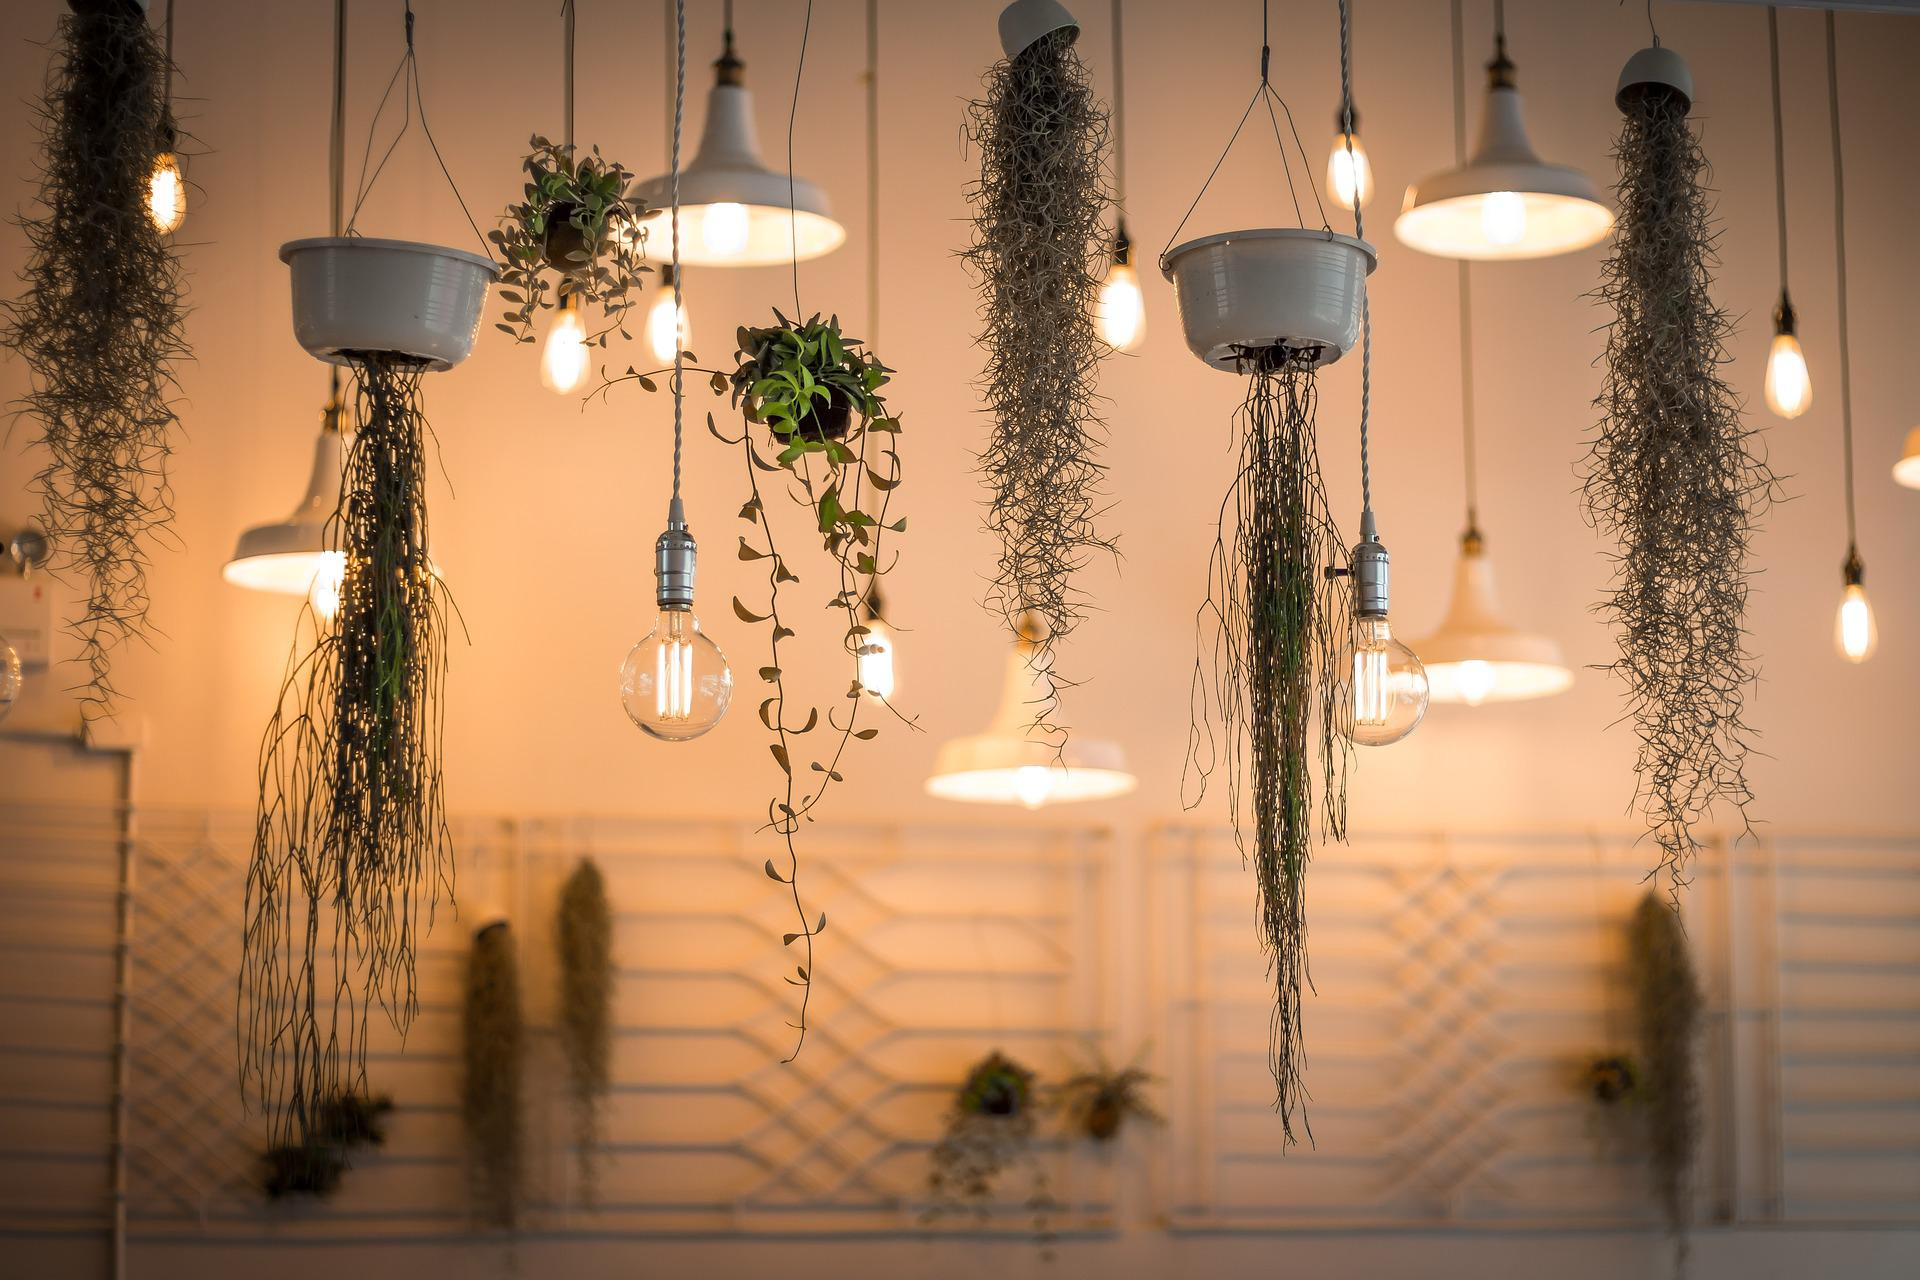
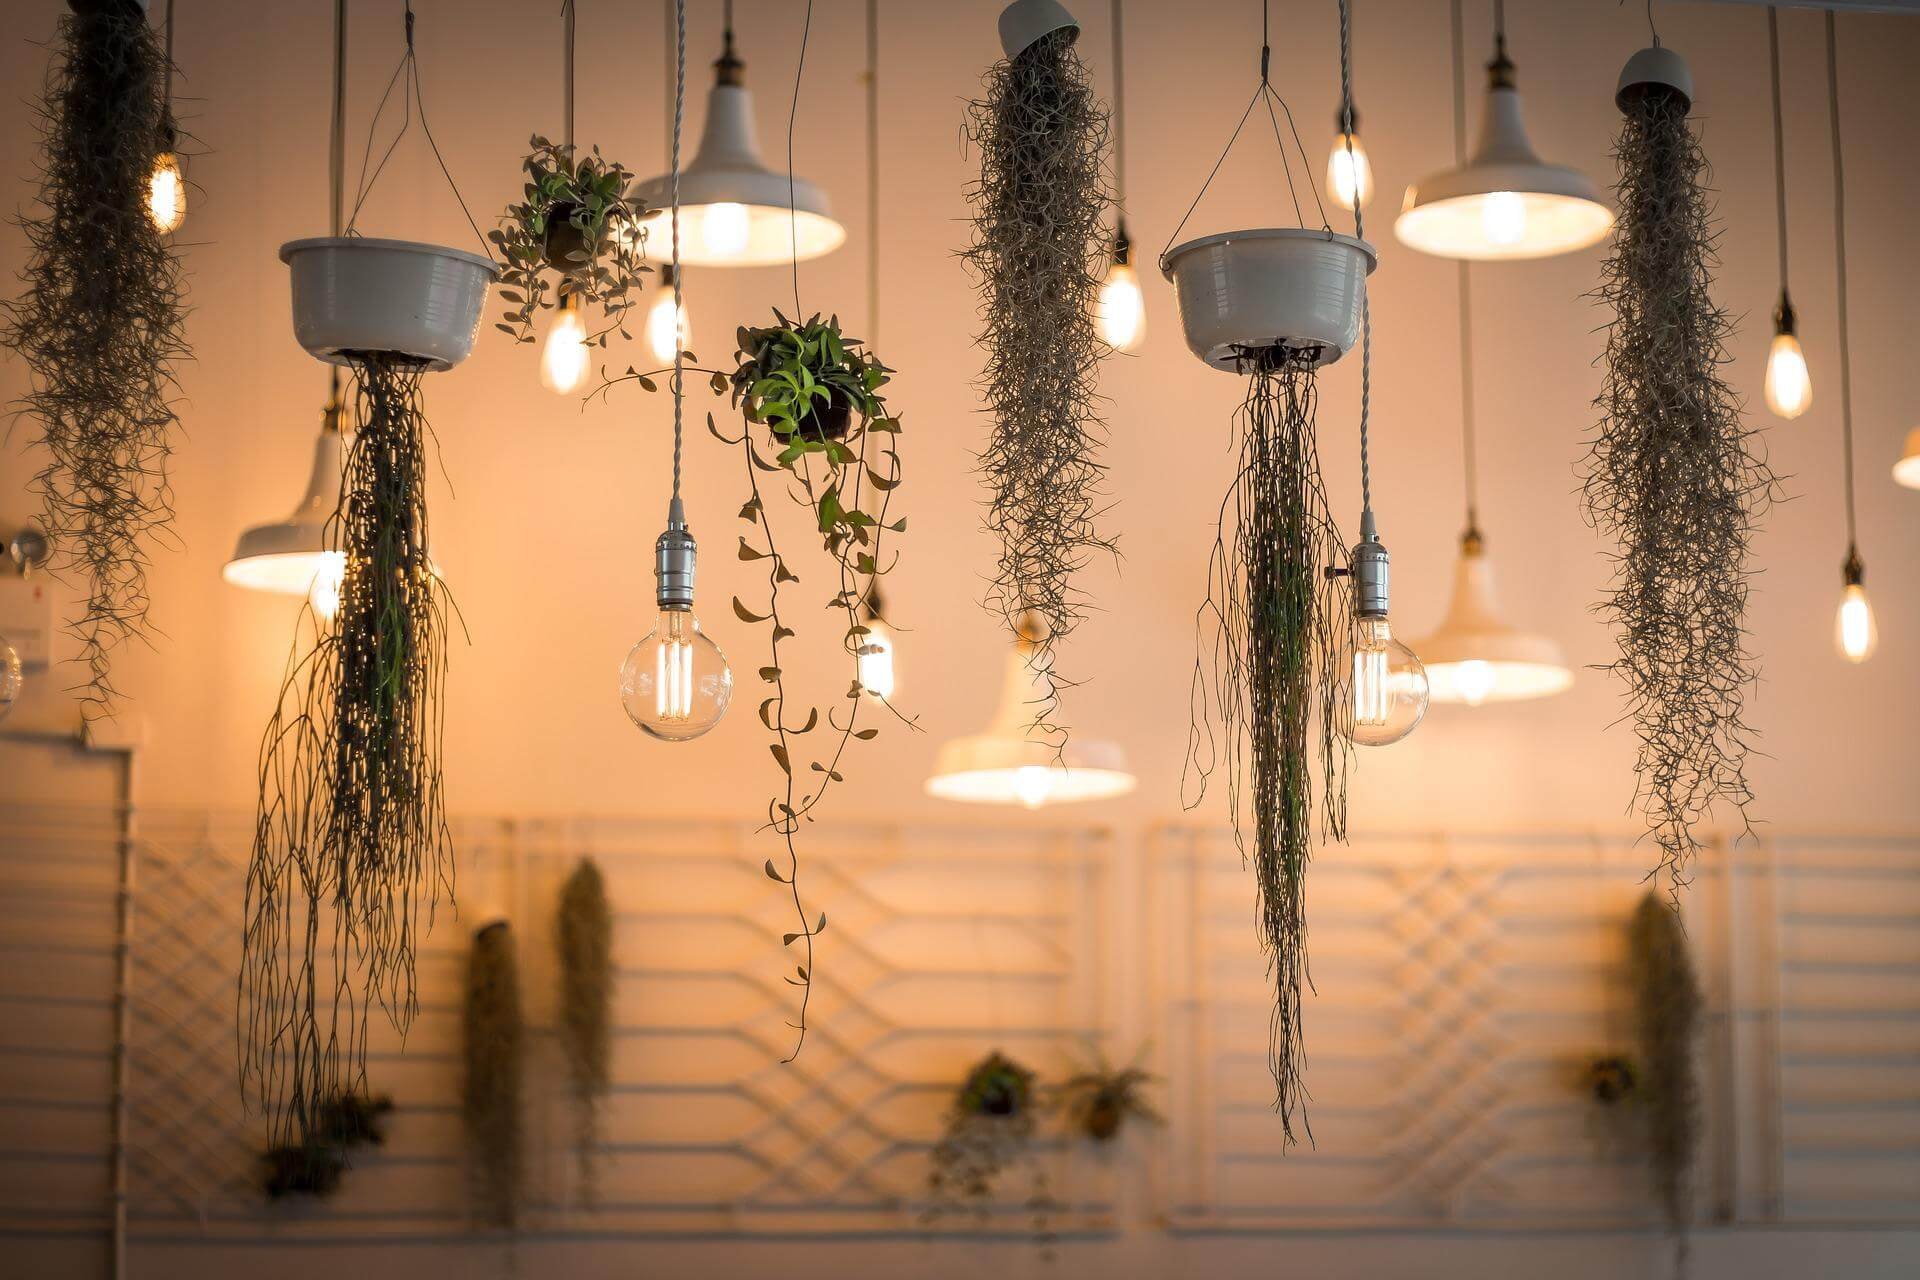
resizing/optimizing photos, added ion-slides on tab2

Changed region(s): [[0.5312, 0.3438, 0.5625, 0.4688]]

diff --git a/src/pages/Tab2.tsx b/src/pages/Tab2.tsx
@@ -1,51 +1,218 @@
-import 
-{ 
-  IonContent, 
-  IonHeader, 
-  IonPage, 
-  IonTitle, 
+import { useCallback, useEffect, useMemo, useState } from "react";
+
+import {
+  IonContent,
+  IonHeader,
+  IonPage,
+  IonTitle,
   IonToolbar,
   IonItem,
   IonCard,
   IonImg,
   IonIcon,
   IonLabel,
-  IonCardTitle, 
-} 
-from '@ionic/react';
-import ExploreContainer from '../components/ExploreContainer';
-import './Tab2.css';
+  IonCardTitle,
+  IonItemSliding,
+  IonItemOptions,
+  IonItemOption,
+  IonSlides,
+  IonSlide,
+  IonGrid,
+  IonRow,
+  IonCol,
+  IonText,
+} from "@ionic/react";
+
+import { ellipsisHorizontal, ellipsisVertical, archive } from "ionicons/icons";
+
+import ExploreContainer from "../components/ExploreContainer";
+import "./Tab2.css";
+
+const slideOpts = {
+  initialSlide: 1,
+  speed: 400,
+};
 
 const Tab2: React.FC = () => {
+
   return (
     <IonPage>
-      <IonContent fullscreen>
+      <IonContent fullscreen color="medium">
         <IonCard color="primary" className="ion-margin">
+          <IonSlides pager={true} options={slideOpts}>
+            <IonSlide>
+              <IonGrid>
+                <IonRow>
+                  <IonCol>
+                    <IonItem color="primary">
+                      <IonImg
+                        className="slidingpic"
+                        src={`/assets/opt-pic1.png`}
+                      />
+                    </IonItem>
+                  </IonCol>
+                </IonRow>
+                <IonRow>
+                  <IonCol>
+                    <IonItem color="primary" className="ion-text-center">
+                      <IonLabel>Electrical Work</IonLabel>
+                    </IonItem>
 
+                    <IonItem color="primary" className="ion-no-border">
+                      <IonText className="ion-text-center ion-no-border">
+                        An intricate electrical installation on the ceiling of
+                        an industrial building.
+                      </IonText>
+                    </IonItem>
+                    <IonItem className="ion-text-center" color="primary"></IonItem>
+                  </IonCol>
+                </IonRow>
+              </IonGrid>
+            </IonSlide>
 
+            <IonSlide>
+              <IonGrid>
+                <IonRow>
+                  <IonCol>
+                    <IonItem color="primary">
+                      <IonImg
+                        className="slidingpic"
+                        src={`/assets/opt-pic2.png`}
+                      />
+                    </IonItem>
+                  </IonCol>
+                </IonRow>
+                <IonRow>
+                  <IonCol>
+                    <IonItem color="primary" className="ion-text-center">
+                      <IonLabel>Installing Electrical Outlets</IonLabel>
+                    </IonItem>
+                    <IonItem color="primary" className="no-border">
+                      <IonText>
+                        An electrical outlet installation in a residental home.
+                      </IonText>
+                    </IonItem>
+                    <IonItem className="no-border" color="primary"></IonItem>
+                  </IonCol>
+                </IonRow>
+              </IonGrid>
+            </IonSlide>
 
+            <IonSlide>
+              <IonGrid>
+                <IonRow>
+                  <IonCol>
+                    <IonItem color="primary">
+                      <IonImg
+                        className="slidingpic"
+                        src={`/assets/opt-pic3.png`}
+                      />
+                    </IonItem>
+                  </IonCol>
+                </IonRow>
+                <IonRow>
+                  <IonCol>
+                    <IonItem color="primary" className="ion-text-center">
+                      <IonLabel>Drywall Installation</IonLabel>
+                    </IonItem>
+                    <IonItem color="primary" className="no-border">
+                      <IonText>A drywall installation for a garage.</IonText>
+                    </IonItem>
+                    <IonItem className="no-border" color="primary"></IonItem>
+                  </IonCol>
+                </IonRow>
+              </IonGrid>
+            </IonSlide>
 
-          <IonItem color="primary"></IonItem>
+            <IonSlide>
+              <IonGrid>
+                <IonRow>
+                  <IonCol>
+                    <IonItem color="primary">
+                      <IonImg
+                        className="slidingpic"
+                        src={`/assets/opt-pic4.png`}
+                      />
+                    </IonItem>
+                  </IonCol>
+                </IonRow>
+                <IonRow>
+                  <IonCol>
+                    <IonItem color="primary" className="ion-text-center">
+                      <IonLabel>Light Installation</IonLabel>
+                    </IonItem>
+                    <IonItem color="primary" className="no-border">
+                      <IonText>
+                        A lighting installation job in a industrial building.
+                      </IonText>
+                    </IonItem>
+                    <IonItem className="no-border" color="primary"></IonItem>
+                  </IonCol>
+                </IonRow>
+              </IonGrid>
+            </IonSlide>
 
+            <IonSlide>
+              <IonGrid>
+                <IonRow>
+                  <IonCol>
+                    <IonItem color="primary">
+                      <IonImg
+                        className="slidingpic"
+                        src={`/assets/opt-pic5.png`}
+                      />
+                    </IonItem>
+                  </IonCol>
+                </IonRow>
+                <IonRow>
+                  <IonCol>
+                    <IonItem color="primary" className="ion-text-center">
+                      <IonLabel>Light Installation</IonLabel>
+                    </IonItem>
+                    <IonItem color="primary" className="no-border">
+                      <IonText>
+                        Another lighting installation job in a industrial
+                        building.
+                      </IonText>
+                    </IonItem>
+                    <IonItem className="no-border" color="primary"></IonItem>
+                  </IonCol>
+                </IonRow>
+              </IonGrid>
+            </IonSlide>
 
-          <IonItem color="primary" className="ion-activated">
-            <IonImg 
-            src="/assets/pic1.jpg" 
-            />
-          </IonItem>
-
-
-
-          <IonItem color="primary">
-            <IonLabel > (512) 359-2470</IonLabel>
-          </IonItem>
-
-
-
+            <IonSlide>
+              <IonGrid>
+                <IonRow>
+                  <IonCol>
+                    <IonItem color="primary">
+                      <IonImg
+                        className="slidingpic"
+                        src={`/assets/opt-pic6.png`}
+                      />
+                    </IonItem>
+                  </IonCol>
+                </IonRow>
+                <IonRow>
+                  <IonCol>
+                    <IonItem color="primary" className="ion-text-center">
+                      <IonLabel>Drywall Installation/Painting</IonLabel>
+                    </IonItem>
+                    <IonItem color="primary" className="no-border">
+                      <IonText>
+                        Drywall installation job followed by paint and
+                        texturing.
+                      </IonText>
+                    </IonItem>
+                    <IonItem className="no-border" color="primary"></IonItem>
+                  </IonCol>
+                </IonRow>
+              </IonGrid>
+            </IonSlide>
+          </IonSlides>
         </IonCard>
       </IonContent>
     </IonPage>
   );
 };
-
 export default Tab2;

diff --git a/src/pages/Tab2.css b/src/pages/Tab2.css
@@ -1,0 +1,9 @@
+.slidingpic{
+    margin-inline: auto;
+}
+
+
+.no-border{
+    border: none;
+    outline: none;
+}
